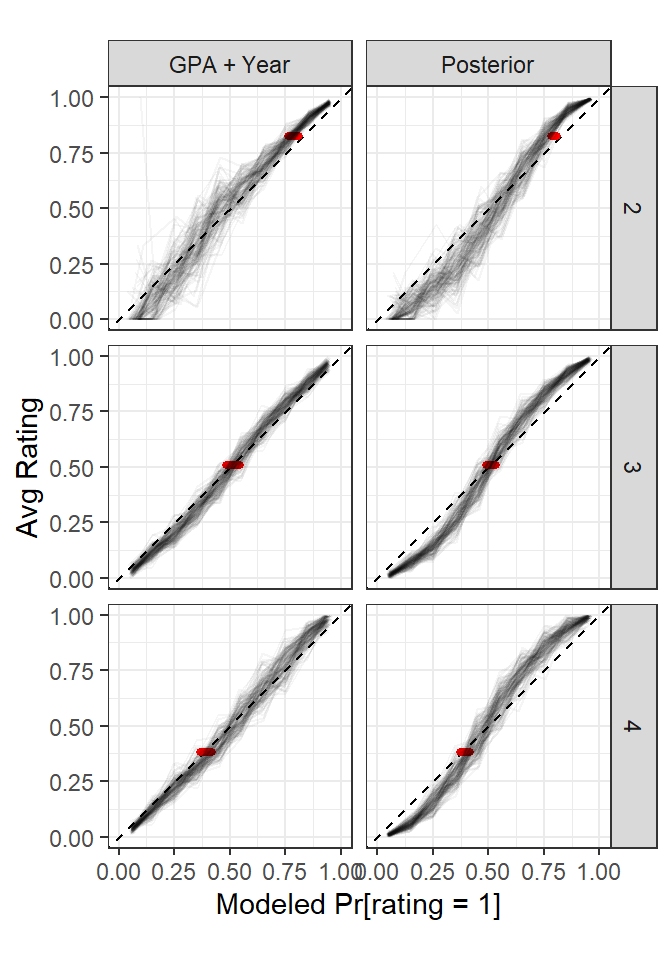
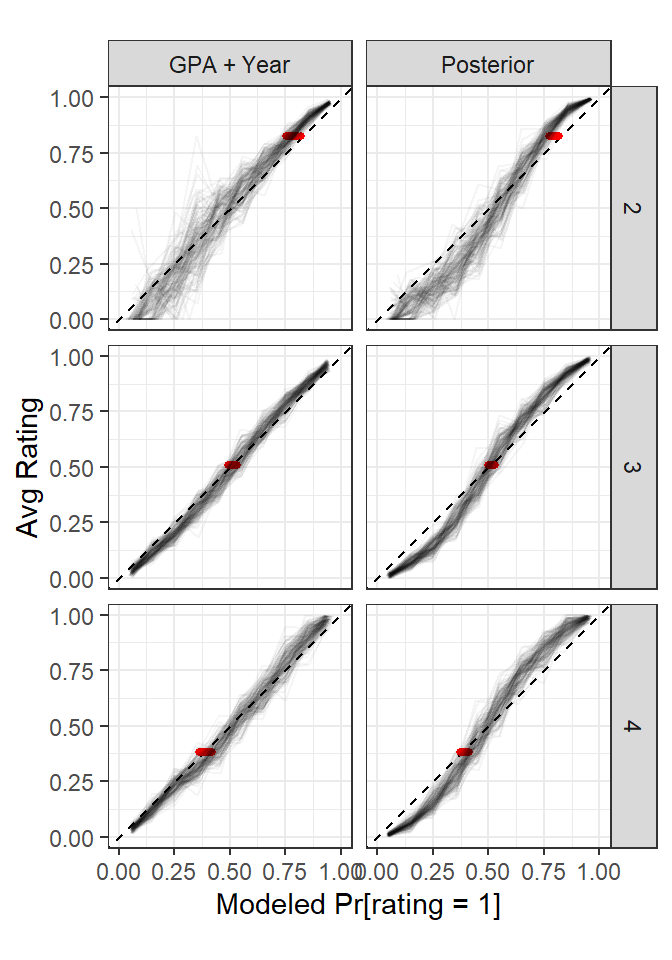
Edits to writing example

diff --git a/Example_writing.html b/Example_writing.html
@@ -1656,7 +1656,7 @@ Table&nbsp;3: Global parameters
 <p>The population-center changes dramatically with assessment year, with</p>
 <p><span class="math display">\[ \begin{aligned} \text{Year 2:}\quad&amp; 2.97 &amp;&amp;\Rightarrow p\approx .95,\\ \text{Year 3:}\quad&amp; 2.97-2.99=-.02 &amp;&amp;\Rightarrow p\approx .50,\\ \text{Year 4:}\quad&amp; 2.97-4.87=-1.90 &amp;&amp;\Rightarrow p\approx .13. \end{aligned} \]</span></p>
 <p>The default response reverses as the assessment becomes more advanced, reflecting the difficulty ramp we saw in the raw rating averages in <a href="#tbl-on-track-rates" class="quarto-xref">Table&nbsp;1</a>.</p>
-<p>The scale parameter <span class="math inline">\(\sigma_p=2.44\)</span> implies larger rater-to-rater variation around those year-specific centers. These <span class="math inline">\(p_j\)</span>s may seem like “nuicence parameters” designed to soak up variance and let the rest of the model work, but as we’ll see in the examples below, they are critical to determining the credibility of individual ratings.</p>
+<p>The scale parameter <span class="math inline">\(\sigma_p=2.44\)</span> implies larger rater-to-rater variation around those year-specific centers. These <span class="math inline">\(p_j\)</span>s may seem like “nuisance parameters” designed to soak up variance and let the rest of the model work, but as we’ll see in the examples below, they are critical to determining the credibility of individual ratings.</p>
 </section>
 </section>
 <section id="rating-calibration" class="level2" data-number="1.6">
@@ -1743,7 +1743,7 @@ Figure&nbsp;6: Rating calibration by year, comparing the probability of an on-tr
 <span id="cb14-3"><a href="#cb14-3" aria-hidden="true" tabindex="-1"></a>  z_p ~ std_normal();</span>
 <span id="cb14-4"><a href="#cb14-4" aria-hidden="true" tabindex="-1"></a>  delta_p3 ~ normal(<span class="dv">0</span>, <span class="fl">0.75</span>);</span>
 <span id="cb14-5"><a href="#cb14-5" aria-hidden="true" tabindex="-1"></a>  delta_p4 ~ normal(<span class="dv">0</span>, <span class="fl">0.75</span>);</span></code><button title="Copy to Clipboard" class="code-copy-button"><i class="bi"></i></button></pre></div>
-<p>The idea is to partially pool individual rater parameters using an average <span class="math inline">\(mu_p\)</span> with a scale parameter <span class="math inline">\(sigma_p\)</span>, and allow raters to each have a degree of variance from the mean <span class="math inline">\(z_p\)</span> expressed in that common unit. The posterior check on rating calibration led to the addition of the two delta parameters, so that in simpler notation,</p>
+<p>The idea is to partially pool individual rater parameters using an average <span class="math inline">\(\mu_p\)</span> with a scale parameter <span class="math inline">\(\sigma_p\)</span>, and allow raters to each have a degree of variance from the mean <span class="math inline">\(z_p\)</span> expressed in that common unit. The posterior check on rating calibration led to the addition of the two delta parameters, so that in simpler notation,</p>
 <p><span class="math display">\[
 \text{logit}(p_j) = \mu + \sigma z_j + \mathbb{I}(Y_m=3) \delta_{3} + \mathbb{I}(Y_m=4) \delta_{4}.
 \]</span></p>
@@ -1753,8 +1753,8 @@ Figure&nbsp;6: Rating calibration by year, comparing the probability of an on-tr
 <h2 data-number="1.7" class="anchored" data-anchor-id="accuracy-consistency"><span class="header-section-number">1.7</span> Accuracy Consistency</h2>
 <p>Another posterior check is to see if the accuracy parameter estimates are consistent with the model assumptions. Rater accuracy <span class="math inline">\(a_j\)</span> is designed to be the rate at which that rater’s ratings matches the true class after discounting randomly-assigned ratings. Recall that this “chance agreement adjustment” is the core intuition behind the original kappa statistics. I’ll call this rate of chance-adjusted matching the “hit rate”, which can be expressed as</p>
 <p><span class="math display">\[
-\text{hit rate} = \frac{1}{M} \sum_{m,j} \left[ R_mq_m + \bar{R}_m \bar{q}_m - \bar{a}_j(p_jq_m + \bar{p}_j \bar{q}_m) \right],
-\]</span> where I’ve taken some liberties with the notation to reduce <span class="math inline">\(j\)</span> subscripts (every occasion <span class="math inline">\(m\)</span> potentially has multiple raters <span class="math inline">\(j\)</span>). The formula is an average over a sum with two components. The first, with the ratings <span class="math inline">\(R_m\)</span> use the posterior estimates of Class 1 probabilities <span class="math inline">\(q_m\)</span> to estimate a match rate between ratings and the true classes of the subjects. But the matches include inaccurate accidents, so the second piece (subtracted) removes the estimate for these accidents according to the t-a-p generative model.</p>
+\text{hit rate} = \frac{1}{M} \sum_{m,j} \left[ R_{mj}q_m + \bar{R}_{mj} \bar{q}_m - \bar{a}_j(p_{mj} q_m + \bar{p}_{mj} \bar{q}_m) \right].
+\]</span> The notation is complicated because every occasion <span class="math inline">\(m\)</span> potentially has multiple raters <span class="math inline">\(j\)</span>, and the <span class="math inline">\(p_j\)</span> parameter is modified by the year of the occasion (year + subject = occasion), hence <span class="math inline">\(p_{mj}\)</span> means the rater’s random assignment parameter for the year of occasion <span class="math inline">\(m\)</span>. This hit rate formula is an average over a sum with two components, each analogous to the logical XNOR (logical equivalence) gate <span class="math inline">\(f(x,y) = xy + \bar{x}\bar{y}\)</span>. The first, <span class="math inline">\(f(R_{mj},q_m)\)</span> estimates the match rate between ratings and the true classes of the subjects. But the matches include inaccurate accidents, so the subtracted piece <span class="math inline">\(f(p_{mj}, q_m)\)</span> removes the estimate for these accidents according to the t-a-p generative model.</p>
 <div class="cell">
 <details class="code-fold">
 <summary>Show the code</summary>
@@ -1805,20 +1805,30 @@ Figure&nbsp;7: Plots of rater accuracy versus the adjusted match between ratings
 <div class="cell">
 <details class="code-fold">
 <summary>Show the code</summary>
-<div class="sourceCode cell-code" id="cb16"><pre class="sourceCode r code-with-copy"><code class="sourceCode r"><span id="cb16-1"><a href="#cb16-1" aria-hidden="true" tabindex="-1"></a>qt_est <span class="sc">|&gt;</span> </span>
-<span id="cb16-2"><a href="#cb16-2" aria-hidden="true" tabindex="-1"></a>  <span class="fu">mutate</span>(<span class="at">label =</span> <span class="fu">if_else</span>(subject_id <span class="sc">==</span> <span class="dv">114</span> <span class="sc">|</span> subject_id <span class="sc">==</span> <span class="dv">395</span>, occasion_id, <span class="cn">NA_integer_</span>),</span>
-<span id="cb16-3"><a href="#cb16-3" aria-hidden="true" tabindex="-1"></a>         <span class="at">subject =</span> <span class="fu">if_else</span>(subject_id <span class="sc">%in%</span> <span class="fu">c</span>(<span class="dv">395</span>, <span class="dv">114</span>), <span class="fu">as.character</span>(subject_id), <span class="st">""</span>)) <span class="sc">|&gt;</span> </span>
-<span id="cb16-4"><a href="#cb16-4" aria-hidden="true" tabindex="-1"></a>  <span class="fu">ggplot</span>(<span class="fu">aes</span>(<span class="at">x =</span> t, <span class="at">y =</span> q, <span class="at">label =</span> label, <span class="at">color =</span> subject)) <span class="sc">+</span></span>
-<span id="cb16-5"><a href="#cb16-5" aria-hidden="true" tabindex="-1"></a>  <span class="fu">geom_point</span>(<span class="at">color =</span> <span class="st">"gray"</span>) <span class="sc">+</span></span>
-<span id="cb16-6"><a href="#cb16-6" aria-hidden="true" tabindex="-1"></a>  <span class="fu">geom_text</span>(<span class="at">size =</span> <span class="dv">4</span>) <span class="sc">+</span></span>
-<span id="cb16-7"><a href="#cb16-7" aria-hidden="true" tabindex="-1"></a>  <span class="co"># geom_smooth(se = FALSE) +</span></span>
-<span id="cb16-8"><a href="#cb16-8" aria-hidden="true" tabindex="-1"></a>  <span class="fu">geom_abline</span>(<span class="at">slope =</span> <span class="dv">1</span>, <span class="at">intercept =</span> <span class="dv">0</span>, <span class="at">color =</span> <span class="st">"red"</span>, <span class="at">linetype =</span> <span class="st">"dashed"</span>) <span class="sc">+</span></span>
-<span id="cb16-9"><a href="#cb16-9" aria-hidden="true" tabindex="-1"></a>  <span class="fu">theme_bw</span>() <span class="sc">+</span></span>
-<span id="cb16-10"><a href="#cb16-10" aria-hidden="true" tabindex="-1"></a>  <span class="fu">labs</span>(</span>
-<span id="cb16-11"><a href="#cb16-11" aria-hidden="true" tabindex="-1"></a>    <span class="at">x =</span> <span class="st">"Prior class probability from GPA and year, t_i"</span>,</span>
-<span id="cb16-12"><a href="#cb16-12" aria-hidden="true" tabindex="-1"></a>    <span class="at">y =</span> <span class="st">"Posterior class probability after ratings, q_m"</span></span>
-<span id="cb16-13"><a href="#cb16-13" aria-hidden="true" tabindex="-1"></a>  )  <span class="sc">+</span></span>
-<span id="cb16-14"><a href="#cb16-14" aria-hidden="true" tabindex="-1"></a>  <span class="fu">theme</span>(<span class="at">legend.position =</span> <span class="st">"none"</span>)</span></code><button title="Copy to Clipboard" class="code-copy-button"><i class="bi"></i></button></pre></div>
+<div class="sourceCode cell-code" id="cb16"><pre class="sourceCode r code-with-copy"><code class="sourceCode r"><span id="cb16-1"><a href="#cb16-1" aria-hidden="true" tabindex="-1"></a>breaks <span class="ot">&lt;-</span> <span class="fu">seq</span>(<span class="dv">0</span>, <span class="dv">1</span>, <span class="at">by =</span> .<span class="dv">05</span>)</span>
+<span id="cb16-2"><a href="#cb16-2" aria-hidden="true" tabindex="-1"></a></span>
+<span id="cb16-3"><a href="#cb16-3" aria-hidden="true" tabindex="-1"></a>qt_bins <span class="ot">&lt;-</span> qt_est <span class="sc">|&gt;</span> </span>
+<span id="cb16-4"><a href="#cb16-4" aria-hidden="true" tabindex="-1"></a>  <span class="fu">mutate</span>(<span class="at">bin =</span> <span class="fu">cut</span>(t, <span class="at">breaks =</span> breaks, <span class="at">include.lowest =</span> <span class="cn">TRUE</span>)) <span class="sc">|&gt;</span> </span>
+<span id="cb16-5"><a href="#cb16-5" aria-hidden="true" tabindex="-1"></a>  <span class="fu">group_by</span>(bin) <span class="sc">|&gt;</span> </span>
+<span id="cb16-6"><a href="#cb16-6" aria-hidden="true" tabindex="-1"></a>  <span class="fu">summarize</span>(<span class="at">N =</span> <span class="fu">n</span>(),</span>
+<span id="cb16-7"><a href="#cb16-7" aria-hidden="true" tabindex="-1"></a>            <span class="at">t_bin =</span> <span class="fu">mean</span>(t),</span>
+<span id="cb16-8"><a href="#cb16-8" aria-hidden="true" tabindex="-1"></a>            <span class="at">q_bin =</span> <span class="fu">mean</span>(q),</span>
+<span id="cb16-9"><a href="#cb16-9" aria-hidden="true" tabindex="-1"></a>            <span class="at">label =</span> <span class="cn">NA_character_</span>) </span>
+<span id="cb16-10"><a href="#cb16-10" aria-hidden="true" tabindex="-1"></a></span>
+<span id="cb16-11"><a href="#cb16-11" aria-hidden="true" tabindex="-1"></a>qt_est <span class="sc">|&gt;</span> </span>
+<span id="cb16-12"><a href="#cb16-12" aria-hidden="true" tabindex="-1"></a>  <span class="fu">mutate</span>(<span class="at">label =</span> <span class="fu">if_else</span>(subject_id <span class="sc">==</span> <span class="dv">114</span> <span class="sc">|</span> subject_id <span class="sc">==</span> <span class="dv">395</span>, occasion_id, <span class="cn">NA_integer_</span>),</span>
+<span id="cb16-13"><a href="#cb16-13" aria-hidden="true" tabindex="-1"></a>         <span class="at">subject =</span> <span class="fu">if_else</span>(subject_id <span class="sc">%in%</span> <span class="fu">c</span>(<span class="dv">395</span>, <span class="dv">114</span>), <span class="fu">as.character</span>(subject_id), <span class="st">""</span>)) <span class="sc">|&gt;</span> </span>
+<span id="cb16-14"><a href="#cb16-14" aria-hidden="true" tabindex="-1"></a>  <span class="fu">ggplot</span>(<span class="fu">aes</span>(<span class="at">x =</span> t, <span class="at">y =</span> q, <span class="at">label =</span> label, <span class="at">color =</span> subject)) <span class="sc">+</span></span>
+<span id="cb16-15"><a href="#cb16-15" aria-hidden="true" tabindex="-1"></a>  <span class="fu">geom_point</span>(<span class="at">color =</span> <span class="st">"gray"</span>) <span class="sc">+</span></span>
+<span id="cb16-16"><a href="#cb16-16" aria-hidden="true" tabindex="-1"></a>  <span class="fu">geom_text</span>(<span class="at">size =</span> <span class="dv">4</span>) <span class="sc">+</span></span>
+<span id="cb16-17"><a href="#cb16-17" aria-hidden="true" tabindex="-1"></a>  <span class="fu">geom_line</span>(<span class="fu">aes</span>(<span class="at">x =</span> t_bin, <span class="at">y =</span> q_bin), <span class="at">color =</span> <span class="st">"black"</span>, <span class="at">data =</span> qt_bins) <span class="sc">+</span></span>
+<span id="cb16-18"><a href="#cb16-18" aria-hidden="true" tabindex="-1"></a>  <span class="fu">geom_abline</span>(<span class="at">slope =</span> <span class="dv">1</span>, <span class="at">intercept =</span> <span class="dv">0</span>, <span class="at">color =</span> <span class="st">"red"</span>, <span class="at">linetype =</span> <span class="st">"dashed"</span>) <span class="sc">+</span></span>
+<span id="cb16-19"><a href="#cb16-19" aria-hidden="true" tabindex="-1"></a>  <span class="fu">theme_bw</span>() <span class="sc">+</span></span>
+<span id="cb16-20"><a href="#cb16-20" aria-hidden="true" tabindex="-1"></a>  <span class="fu">labs</span>(</span>
+<span id="cb16-21"><a href="#cb16-21" aria-hidden="true" tabindex="-1"></a>    <span class="at">x =</span> <span class="st">"Prior class probability from GPA and year, t_i"</span>,</span>
+<span id="cb16-22"><a href="#cb16-22" aria-hidden="true" tabindex="-1"></a>    <span class="at">y =</span> <span class="st">"Posterior class probability after ratings, q_m"</span></span>
+<span id="cb16-23"><a href="#cb16-23" aria-hidden="true" tabindex="-1"></a>  )  <span class="sc">+</span></span>
+<span id="cb16-24"><a href="#cb16-24" aria-hidden="true" tabindex="-1"></a>  <span class="fu">theme</span>(<span class="at">legend.position =</span> <span class="st">"none"</span>)</span></code><button title="Copy to Clipboard" class="code-copy-button"><i class="bi"></i></button></pre></div>
 </details>
 <div class="cell-output-display">
 <div id="fig-model-split" class="quarto-float quarto-figure quarto-figure-center anchored">
@@ -1827,13 +1837,14 @@ Figure&nbsp;7: Plots of rater accuracy versus the adjusted match between ratings
 <img src="Example_writing_files/figure-html/fig-model-split-1.png" class="img-fluid figure-img" width="432">
 </div>
 <figcaption class="quarto-float-caption-bottom quarto-float-caption quarto-float-fig" id="fig-model-split-caption-0ceaefa1-69ba-4598-a22c-09a6ac19f8ca">
-Figure&nbsp;8: Comparison of the student ability estimate from GPA (the prior) with the final probability estimate of Class 1 (q_m) for that occasion after adding the ratings data. Occasions corresponding to subjects 114 (green) and 395 (blue) are called out in the plot.
+Figure&nbsp;8: Comparison of the student ability estimate from GPA (the prior) with the final probability estimate of Class 1 (q_m) for that occasion after adding the ratings data. Occasions corresponding to subjects 114 (green) and 395 (blue) are called out in the plot. The red line is 1-1 and the black line averages q over bins of t.
 </figcaption>
 </figure>
 </div>
 </div>
 </div>
 <p>The plot in <a href="#fig-model-split" class="quarto-xref">Figure&nbsp;8</a> illustrates the relationship between prior estimates of student ability from first year college grades and the year difficulty. The posterior estimate we’re calling <span class="math inline">\(q_m\)</span> is occasion-specific, meaning a given student in a given year of college, and it combines student-level information (GPA multiplied by the regression coefficient) with timing (the year multiplied by the difficulty coefficient) to estimate a prior probability (meaning before we consider ratings) that the student is on track with writing development. The ratings data then supply more specific evidence about that occasion. A useful consequence of the Justified True Belief generative construction is a natural Bayesian decomposition of inference into prior and observational evidence.</p>
+<p>Although ratings can substantially alter the estimated class probability for individual occasions, these changes balance out across occasions. The black line shows the average posterior probability (q_m) at different levels of the prior probability (t_m). Its close correspondence with the identity line is an expected property of a well-calibrated Bayesian model: before observing the ratings, the expected posterior probability is the prior probability. Thus, the GPA-and-year model establishes the baseline distribution of class probabilities, while the ratings redistribute those probabilities among individual occasions.</p>
 <p>If the ratings had no impact on the posterior probability, all the points would lie on the diagonal 1-1 line of <a href="#fig-model-split" class="quarto-xref">Figure&nbsp;8</a>. But the bands of points at top right and bottom left show that most posterior class probability estimates are being pulled toward <span class="math inline">\(q_m = 1\)</span> or <span class="math inline">\(q_m = 0\)</span> by the ratings evidence. The labeled points in the bottom right of <a href="#fig-model-split" class="quarto-xref">Figure&nbsp;8</a> illustrate the importance of the ratings data. For occasion 1232 (green marker), the ratings data did not move the posterior estimates of on-track classification much from the prior taken from grades and timing. However, for subject 395 (blue), the ratings overwhelmed the priors to produce probabilities near zero or one.</p>
 <div class="cell">
 <details class="code-fold">
